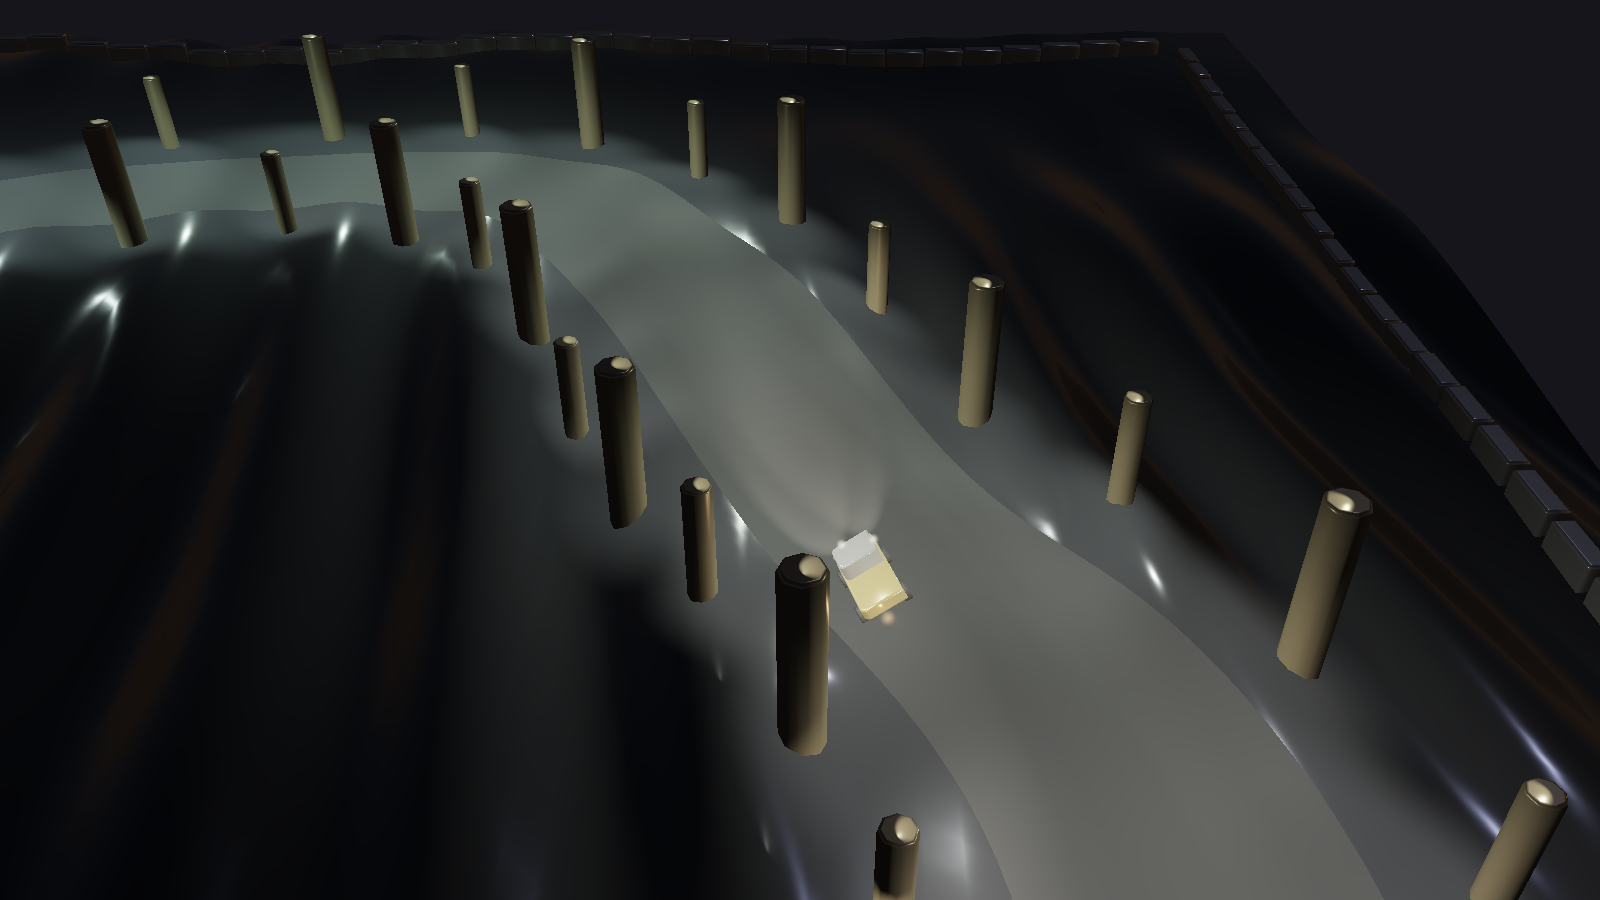
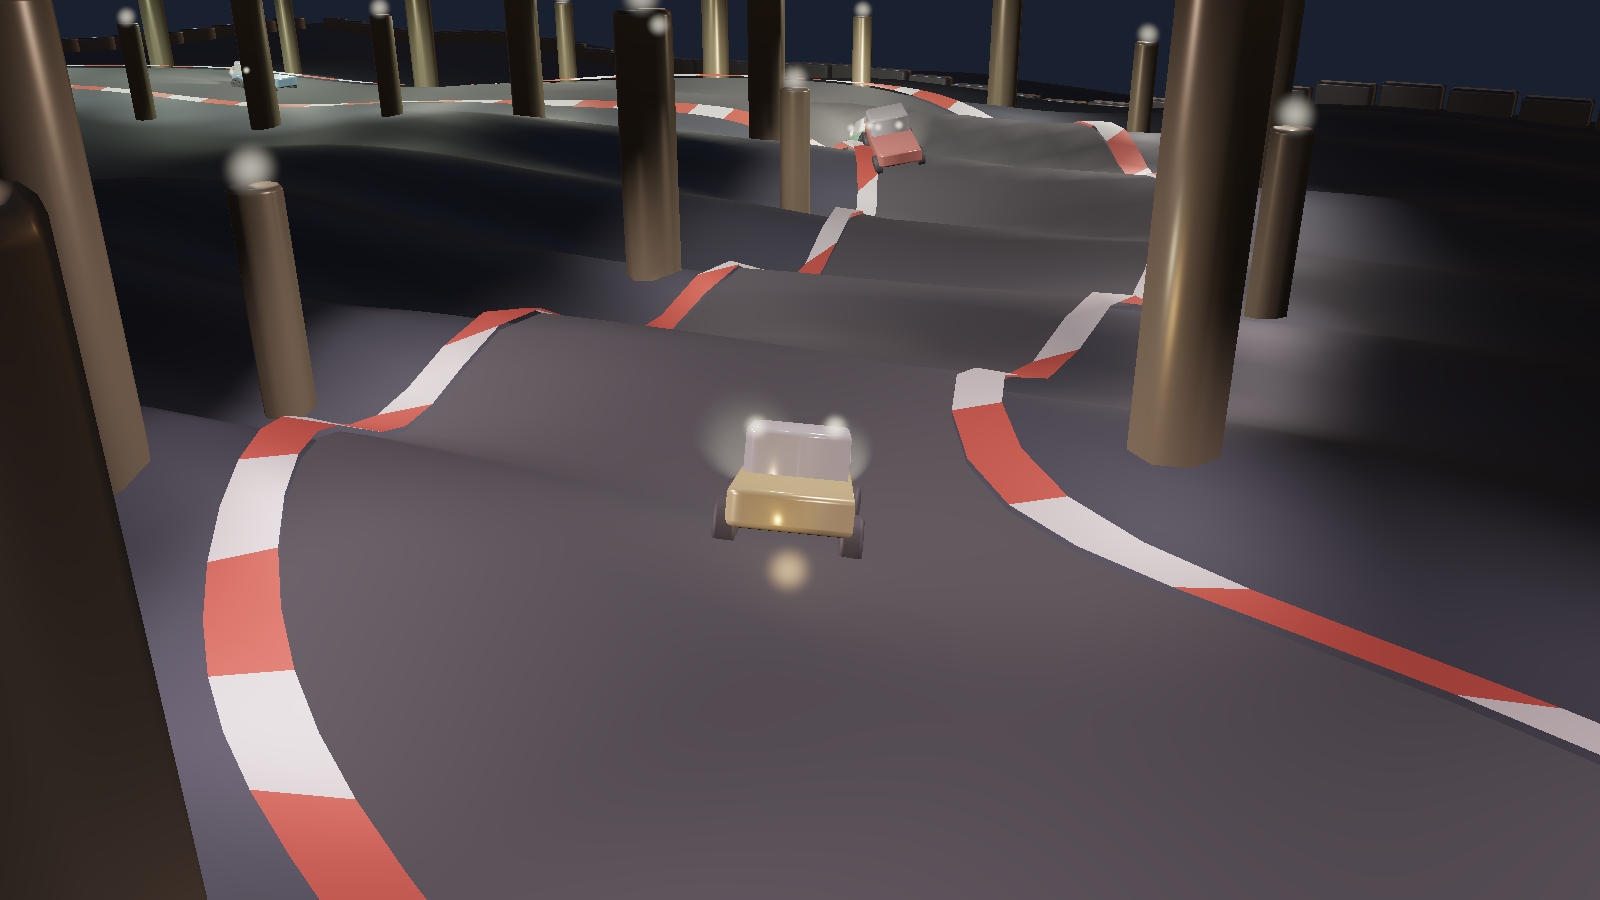
An experiment: put the camera behind the truck, on V
Off by default. 1500mm back, 22 degrees above the horizon, turning with
the nose. It is driven through the orbit controller rather than around
it: the mode writes an azimuth every frame and leaves the polar and the
radius to the drag and the wheel, so how high and how far back the chase
sits is still the player's. The controller's easing is the camera lag —
5.4 degrees behind the nose at 1.24 rad/s of yaw, 8.3 through a handbrake
slide, and the truck never more than 0.03 of the frame off centre.

Two things had to be right and were wrong first. The azimuth is kept
continuous and entering the mode picks the value nearest where the camera
already is, because the orbit eases toward what it is handed by plain
interpolation: handing it an angle a full turn away from an identical one
sent the camera 4.95 radians the long way round on a switch that should
be barely a movement. And the lead is a third of the overhead view's —
0.32 seconds of travel is 590mm, which from 3900mm up and back is a nudge
and from 1500mm behind is the truck off the side of the frame.

The cost is the expected one: from behind, the posts are in the way and
the road disappears over every crest, so it is much harder to read a
corner before arriving. That is what the overhead view exists to avoid,
which is why this is on a key and not instead of it.

diff --git a/src/main.ts b/src/main.ts
@@ -275,11 +275,43 @@ async function main() {
    * you have just driven.
    */
   const aim: [number, number, number] = [0, 0, CAMERA_HEIGHT];
+  /**
+   * Chase mode: the camera sits behind the truck instead of at a compass
+   * angle the driver chose. An experiment, on V.
+   *
+   * Kept as a continuous angle rather than one wrapped into a turn, because
+   * the orbit eases toward whatever it is given by simple interpolation: a
+   * truck whose yaw crosses pi would otherwise hand the camera a target 2pi
+   * away and it would swing all the way round the wrong side to reach the
+   * same place.
+   */
+  let chase = false;
+  let chaseAzimuth = 0;
+
   const followShip = (dt: number) => {
     const t = arena.truck;
-    const wantX = t.x + t.vx * LEAD_TIME;
-    const wantY = t.y + t.vy * LEAD_TIME;
-    const k = Math.min(1, dt * 4.5);
+    if (chase) {
+      // behind means opposite the nose: the orbit's azimuth is measured from
+      // the target out to the camera
+      let d = (t.yaw + Math.PI) - chaseAzimuth;
+      while (d > Math.PI) d -= Math.PI * 2;
+      while (d < -Math.PI) d += Math.PI * 2;
+      chaseAzimuth += d;
+      // Only the azimuth, and every frame. The polar and the radius are left
+      // to the wheel and the drag, so the height and the distance of the
+      // chase are still the player's — what the mode takes away is only the
+      // choice of which way round the truck to stand.
+      orbit.setSpherical({ azimuth: chaseAzimuth });
+    }
+    // From behind, the lead that makes the overhead view work throws the
+    // truck off the side of the frame: 0.32 seconds at racing speed is 590mm
+    // of a chase that is only 1500 long, and the camera is already lagging
+    // the yaw through a corner. A third of it, and a target that catches up
+    // twice as fast.
+    const lead = chase ? CHASE_LEAD : LEAD_TIME;
+    const wantX = t.x + t.vx * lead;
+    const wantY = t.y + t.vy * lead;
+    const k = Math.min(1, dt * (chase ? 9 : 4.5));
     aim[0] += (wantX - aim[0]) * k;
     aim[1] += (wantY - aim[1]) * k;
     // up and down with the ground, more slowly than across it: a camera that
@@ -400,6 +432,25 @@ async function main() {
     last = now; t += dt;
 
     if (input.takeRecentre()) { aim[0] = 0; aim[1] = 0; reframe(true); }
+    if (input.takeChaseToggle()) {
+      chase = !chase;
+      if (chase) {
+        // Behind the truck, expressed as the angle nearest where the camera
+        // already is. The orbit eases toward whatever angle it is handed by
+        // plain interpolation and never wraps, so an angle a turn away from
+        // an identical one is a camera that swings four fifths of a circle to
+        // arrive where it could have reached in a fifth. It did: 4.95 radians
+        // the long way round, on a switch that should be barely a movement.
+        const cam = renderer.camera;
+        const now = Math.atan2(cam.position[1] - cam.target[1], cam.position[0] - cam.target[0]);
+        let d = (arena.truck.yaw + Math.PI) - now;
+        while (d > Math.PI) d -= Math.PI * 2;
+        while (d < -Math.PI) d += Math.PI * 2;
+        chaseAzimuth = now + d;
+        orbit.setSpherical({ azimuth: chaseAzimuth, polar: CHASE_POLAR, radius: CHASE_DISTANCE });
+      }
+      touched = true;
+    }
     followShip(dt);
     orbit.update();
     setDepthRange(renderer.camera);
@@ -518,6 +569,15 @@ const LEAD_TIME = 0.32;
 /** How high off the floor the camera looks. The fit solves for this exact
  *  point, so at full zoom-out the guarantee that everything is in frame holds. */
 const CAMERA_HEIGHT = 55;
+/**
+ * Where the chase camera stands: closer than the overhead view and much
+ * lower, which is the whole difference between the two. From above you read
+ * the corner; from behind you read the car.
+ */
+const CHASE_DISTANCE = 1500;
+const CHASE_POLAR = 1.18;
+/** How far ahead the chase camera looks, in seconds of travel. */
+const CHASE_LEAD = 0.1;
 
 
 /** Where the gantry posts stand: one either side of the line. */
@@ -638,11 +698,13 @@ function identity(): Float32Array {
 function watchInput(race: Race) {
   const held = new Set<string>();
   let recentre = false;
+  let chaseToggle = false;
 
   addEventListener('keydown', (e) => {
     const k = e.key.toLowerCase();
     if (k === 'r') race.reset();
     if (k === 'c') recentre = true;
+    if (k === 'v') chaseToggle = true;
     // the arrows scroll the page otherwise, which in a game that uses them is
     // the page jumping about under the driver
     if ([' ', 'arrowup', 'arrowdown', 'arrowleft', 'arrowright'].includes(k)) e.preventDefault();
@@ -656,6 +718,8 @@ function watchInput(race: Race) {
   return {
     /** True once, for the frame the camera should be framed again. */
     takeRecentre() { const r = recentre; recentre = false; return r; },
+    /** True once, for the frame the camera should change where it stands. */
+    takeChaseToggle() { const c = chaseToggle; chaseToggle = false; return c; },
     read(): Input {
       return {
         turn: (down('a', 'arrowleft') ? 1 : 0) - (down('d', 'arrowright') ? 1 : 0),

diff --git a/index.html b/index.html
@@ -29,6 +29,6 @@
 <div class="panel" id="score" hidden><b>3…</b>lap <span>1</span></div>
 <div class="panel" id="stats" hidden></div>
 <div class="panel" id="map" hidden><svg id="mapSvg" aria-hidden="true"></svg></div>
-<div class="panel" id="help" hidden>steer <span>A D</span> / ←→ · throttle <span>W</span> / ↑ · brake, then reverse <span>S</span> / ↓ · handbrake <span>space</span><br>drag to orbit · wheel to zoom · <span>C</span> re-centre · <span>R</span> back to the line</div>
+<div class="panel" id="help" hidden>steer <span>A D</span> / ←→ · throttle <span>W</span> / ↑ · brake, then reverse <span>S</span> / ↓ · handbrake <span>space</span><br>drag to orbit · wheel to zoom · <span>V</span> camera behind · <span>C</span> re-centre · <span>R</span> back to the line</div>
 <div id="boot"><h1>ARENA</h1><p id="bootMsg">starting the GPU…</p></div>
 <script type="module" src="/src/main.ts"></script>

diff --git a/README.md b/README.md
@@ -230,6 +230,38 @@ against the 176 a truck and a post need between them. Off the
 tarmac the grip falls away over 200mm rather than at a line, so running wide
 is a mistake that costs rather than a wall.
 
+### Behind the truck, on V
+
+An experiment, and off by default. The overhead view is the game's own; this
+puts the camera 1500mm behind the truck at 22 degrees above the horizon and
+turns it with the nose.
+
+It is driven through the orbit controller rather than around it — the mode
+writes an azimuth every frame and leaves the polar and the radius to the drag
+and the wheel, so how high and how far back the chase sits is still the
+player's, and only which way round the truck to stand is taken away. The
+controller's own easing is the camera lag, and measures at 5.4 degrees behind
+the nose at 1.24 rad/s of yaw and 8.3 through a handbrake slide, with the
+truck never leaving the middle of the frame by more than 0.03 of its width.
+
+Two things had to be got right, and both were wrong first:
+
+- The azimuth is kept as a **continuous angle, never wrapped into a turn**,
+  and entering the mode picks the value nearest where the camera already is.
+  The orbit eases toward what it is handed by plain interpolation, so an angle
+  a full turn away from an identical one is a camera that swings the long way
+  round to arrive where it could have reached in a fifth of the distance. It
+  did exactly that: 4.95 radians, on a switch that should be barely a
+  movement.
+- The **lead is a third of what the overhead view uses**. 0.32 seconds of
+  travel at racing speed is 590mm, which from 3900mm up and back is a nudge
+  and from 1500mm behind is the truck off the side of the frame.
+
+What it costs is what you would expect: from behind, the posts are in the way
+and the road ahead disappears over every crest, so it is much harder to see
+what the corner does before arriving. That is the trade the overhead view was
+chosen to avoid, and it is why this is on a key rather than instead.
+
 ## The minimap
 
 The whole circuit in the corner, with a dot per car. Two dimensions and no
